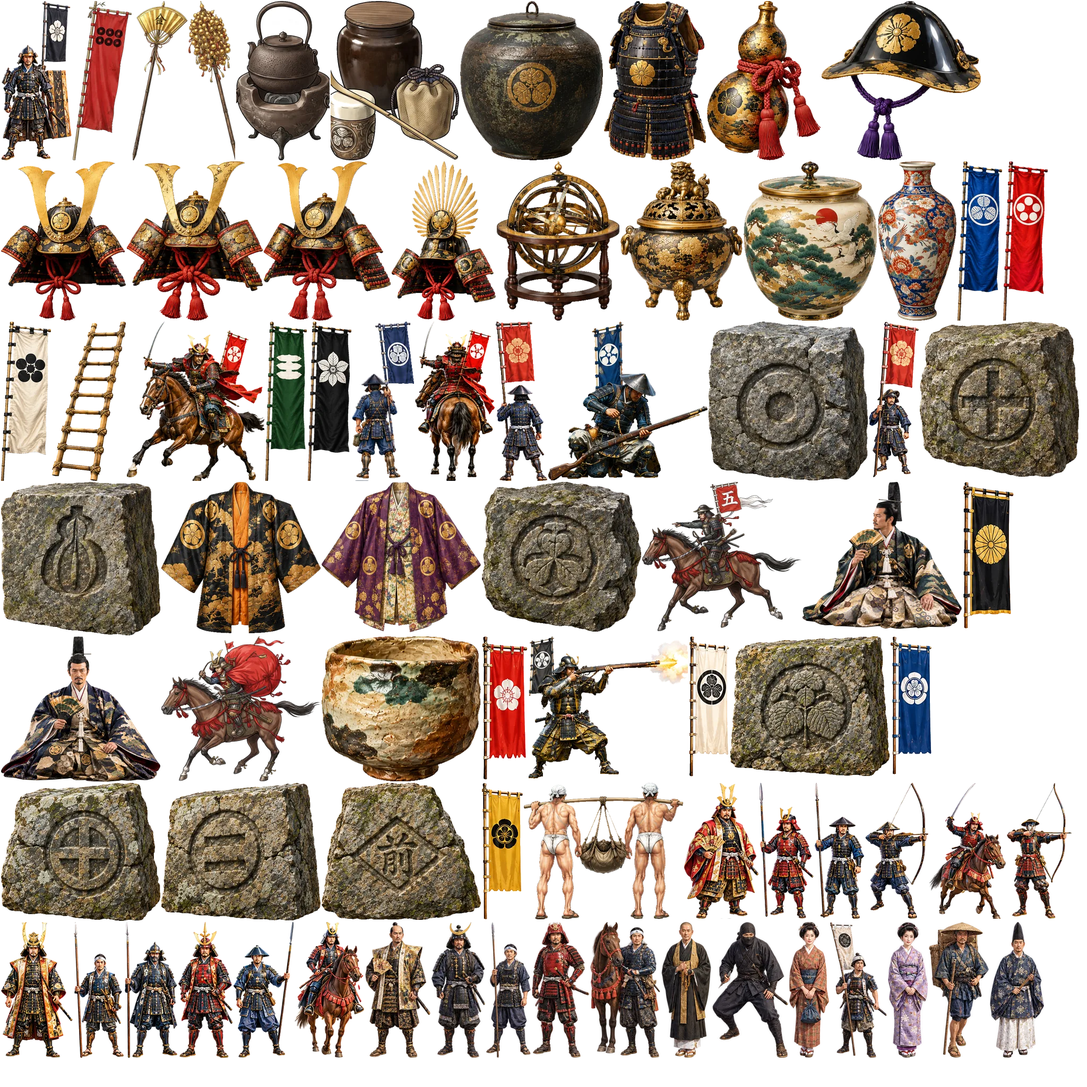
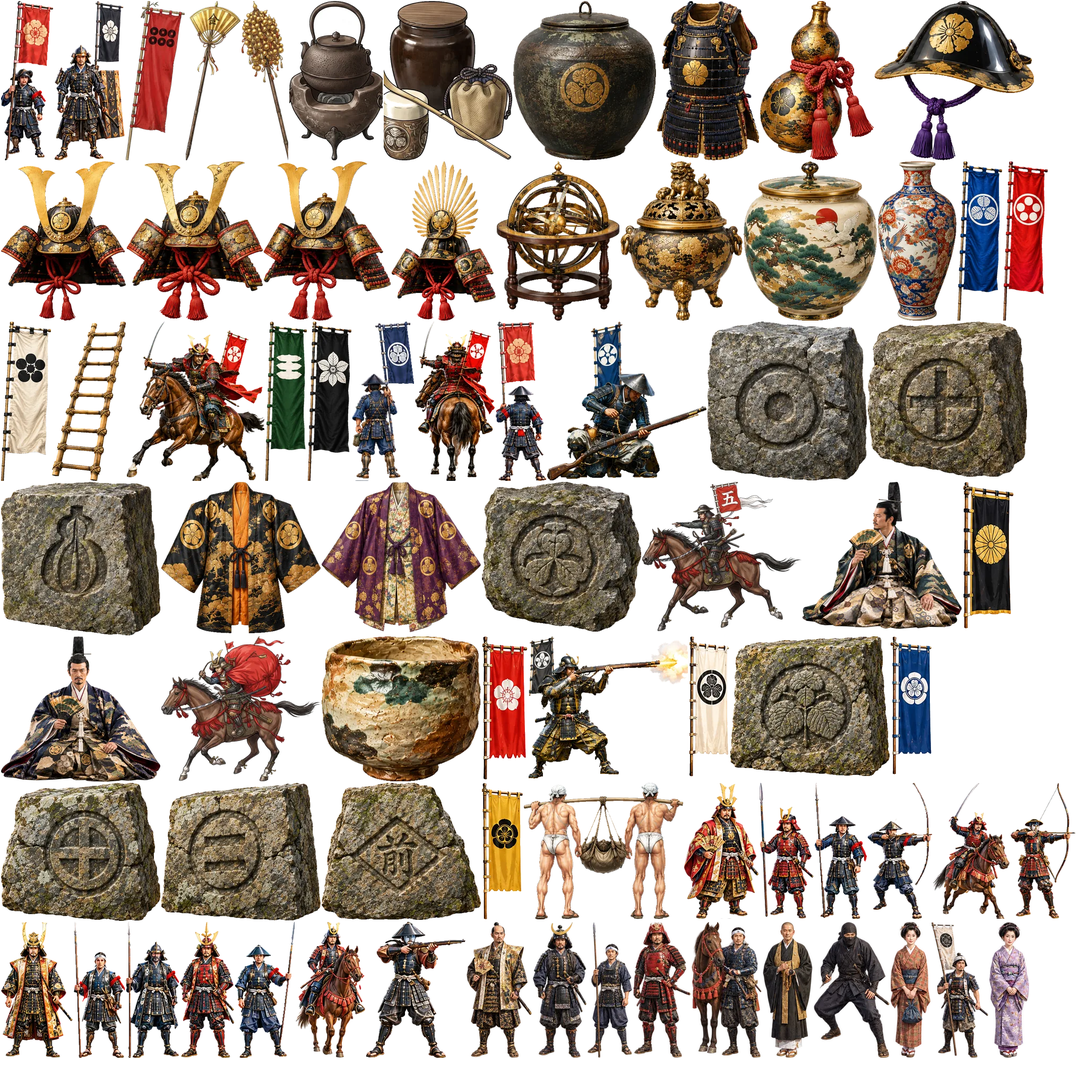
徳川方の動き・騎馬の後ろ姿6種を追加。豊臣方の足軽9種を赤い袖印・腰札つきの正面と後ろ姿に入れ替え
Claude-Session: https://claude.ai/code/session_01CbQDmY5EVodmwZ72hpont7

Changed region(s): [[0.0, 0.0, 0.9688, 0.1562], [0.0625, 0.7188, 1.0, 1.0], [0.4375, 0.2812, 1.0, 0.4375]]

diff --git a/index.html b/index.html
@@ -3320,7 +3320,7 @@ const inOut=(x,z,m)=>OUTAREA.some(r=>inR(r,x,z,m||0));
 }
 
 /* ================= 切り抜き画像（スプライト）: 人物・装飾品をアトラス画像から並べる ================= */
-const ATLAS_META={"size":2048,"pages":4,"s":{"g_nobori":[0,2,2,133,300,3.0],"nb_rokumon":[0,137,2,111,300,4.2],"kinsen":[0,250,2,103,300,4.2],"sennari":[0,355,2,88,300,4.2],"kama":[0,445,2,176,300,0.35],"chaire":[0,623,2,242,300,0.22],"ex_chatsubo":[0,867,2,269,300,0.42],"ex_do":[0,1138,2,192,300,0.7],"ex_hyotan":[0,1332,2,214,300,0.38],"ex_jingasa":[0,1548,2,300,300,0.32],"ex_kabuto1":[0,2,304,235,300,0.55],"ex_kabuto2":[0,239,304,256,300,0.55],"ex_kabuto3":[0,497,304,239,300,0.55],"ex_kabuto_bariin":[0,738,304,196,300,0.62],"ex_konten":[0,936,304,231,300,0.55],"ex_kouro":[0,1169,304,230,300,0.42],"ex_tsubo_matsu":[0,1401,304,251,300,0.42],"ex_vase_imari":[0,1654,304,148,300,0.5],"k_nb_aoi":[0,1804,304,84,300,4.2],"k_nb_ii":[0,1890,304,84,300,4.2],"k_nb_maeda":[0,2,606,94,300,4.2],"obj_hashigo":[0,98,606,139,300,4.5],"r_act_kiba":[0,239,606,259,300,2.9],"t_nb_green":[0,500,606,78,300,4.2],"t_nb_mori":[0,580,606,82,300,4.2],"k_nobori_b":[0,664,606,116,300,3.4],"r_act_kiba_b":[0,782,606,150,300,2.9],"t_nobori_b":[0,934,606,97,300,3.4],"k_act_reload":[0,1033,606,300,299,1.9],"ki_maru":[0,1335,606,300,299,1.1],"t_nobori":[0,1637,606,94,293,3.4],"ki_jumonji":[0,1733,606,300,292,1.1],"ki_hyotan":[0,2,908,300,289,1.1],"ex_jinbaori1":[0,304,908,300,285,0.95],"ex_jinbaori2":[0,606,908,300,283,0.95],"ki_kashiwa":[0,908,908,300,282,1.1],"tsukaiban":[0,1210,908,300,281,2.7],"lord_green":[0,1512,908,300,277,1.25],"nb_black":[0,1814,908,96,276,4.2],"lord_navy":[0,2,1199,300,274,1.25],"horo":[0,304,1199,300,273,2.7],"ex_chawan_oribe":[0,606,1199,300,273,0.16],"nb_white":[0,908,1199,86,270,4.2],"k_act_fire":[0,996,1199,300,268,2.1],"nb_red":[0,1298,1199,76,264,4.2],"ki_kiri":[0,1376,1199,300,263,1.1],"nb_blue":[0,1678,1199,77,260,4.2],"ki_jumonji2":[0,2,1475,300,260,1.1],"ki_nibiki":[0,304,1475,300,259,1.1],"ki_mae":[0,606,1475,300,258,1.1],"nb_yellow":[0,908,1475,77,257,4.2],"mokko_b":[0,987,1475,300,257,1.75],"t_hideyori":[0,1289,1475,140,256,1.75],"t_bushou":[0,1431,1475,102,256,1.8],"t_yari":[0,1535,1475,93,256,1.75],"t_yumi":[0,1630,1475,119,256,1.8],"t_uma":[0,1751,1475,144,256,2.5],"r_yumi":[0,1897,1475,122,256,1.8],"taisho":[0,2,1737,135,256,1.85],"y_hb":[0,139,1737,94,256,1.75],"y_dark":[0,235,1737,99,256,1.8],"r_bushou":[0,336,1737,102,256,1.85],"ashigaru":[0,440,1737,113,256,1.75],"r_kiba":[0,555,1737,131,256,2.6],"p_lord":[0,688,1737,123,256,1.75],"p_kabuto":[0,813,1737,101,256,1.8],"p_yari":[0,916,1737,84,256,1.75],"p_red":[0,1002,1737,108,256,1.8],"p_horse":[0,1112,1737,132,256,2.3],"p_monk":[0,1246,1737,94,256,1.75],"p_ninja":[0,1342,1737,143,256,1.6],"p_woman":[0,1487,1737,75,256,1.6],"p_flag":[0,1564,1737,107,256,2.6],"p_lav":[0,1673,1737,75,256,1.6],"p_porter":[0,1750,1737,113,256,1.7],"p_noble":[0,1865,1737,102,256,1.8],"p_orange":[1,2,2,81,256,1.6],"p_point":[1,85,2,101,256,1.75],"p_flagboy":[1,188,2,97,256,2.4],"p_naked":[1,287,2,118,256,1.7],"q_ronin":[1,407,2,112,256,1.75],"q_redw":[1,521,2,83,256,1.6],"q_merchant":[1,606,2,124,256,1.75],"q_yoke":[1,732,2,187,256,1.7],"q_green":[1,921,2,76,256,1.6],"q_child":[1,999,2,175,256,1.1],"q_oldw":[1,1176,2,120,256,1.5],"q_girl":[1,1298,2,108,256,1.45],"q_traveler":[1,1408,2,124,256,1.75],"q_purple":[1,1534,2,100,256,1.6],"w_samurai":[1,1636,2,115,256,1.8],"w_red":[1,1753,2,73,256,1.6],"w_yoke":[1,1828,2,163,256,1.7],"w_bucket":[1,2,260,80,256,1.55],"w_traveler":[1,84,260,103,256,1.8],"w_boy":[1,189,260,124,256,1.3],"w_umbrella":[1,315,260,90,256,1.7],"w_box":[1,407,260,114,256,1.7],"w_oldw":[1,523,260,113,256,1.5],"w_youth":[1,638,260,102,256,1.75],"w_tray":[1,742,260,78,256,1.6],"w_straw":[1,822,260,110,256,1.75],"lady_walk":[1,934,260,108,256,1.62],"lady_tray":[1,1044,260,84,256,1.6],"lady_tray2":[1,1130,260,109,256,1.6],"sam_kami":[1,1241,260,123,256,1.8],"sam_haori":[1,1366,260,113,256,1.8],"sam_armor":[1,1481,260,102,256,1.8],"lord_purple":[1,1585,260,246,256,1.25],"sanada":[1,1833,260,152,256,2.3],"yodo":[1,2,518,159,256,1.62],"nene":[1,163,518,161,256,1.6],"rikyu":[1,326,518,97,256,1.68],"kimura":[1,425,518,126,256,2.35],"goto":[1,553,518,127,256,2.3],"mitsunari":[1,682,518,114,256,1.75],"ishibiki":[1,798,518,185,256,1.55],"nanban":[1,985,518,121,256,1.85],"frois":[1,1108,518,87,256,1.75],"touryou":[1,1197,518,106,256,1.72],"ishiku":[1,1305,518,206,256,1.25],"takajo":[1,1513,518,149,256,1.75],"jijo":[1,1664,518,112,256,1.6],"bugyo":[1,1778,518,164,256,1.8],"taketaba_a":[1,2,776,183,256,1.75],"teppo_k":[1,187,776,201,256,1.3],"taketaba":[1,390,776,100,256,2.0],"kokuin":[1,492,776,204,256,1.0],"act_carry":[1,698,776,151,256,2.3],"act_flee":[1,851,776,193,256,2.2],"ex_hata":[1,1046,776,130,256,1.6],"ex_hideyoshi_zo":[1,1178,776,157,256,1.5],"ex_kakejiku_castle":[1,1337,776,128,256,1.5],"k_bs_date":[1,1467,776,199,256,2.6],"k_bs_honda":[1,1668,776,136,256,2.6],"k_bs_ii":[1,1806,776,106,256,2.6],"k_bs_maeda":[1,2,1034,142,256,2.6],"k_bs_matsudaira":[1,146,1034,112,256,2.6],"k_bs_satake":[1,260,1034,155,256,2.6],"k_bs_todo":[1,417,1034,133,256,2.6],"k_bs_uesugi":[1,552,1034,119,256,2.6],"obj_fuda":[1,673,1034,94,256,1.9],"obj_tate":[1,769,1034,202,256,1.6],"t_bs_akashi":[1,973,1034,128,256,2.6],"t_bs_chosokabe":[1,1103,1034,137,256,2.6],"t_bs_kimura2":[1,1242,1034,125,256,2.6],"t_bs_mori":[1,1369,1034,180,256,2.6],"t_bs_ono":[1,1551,1034,146,256,2.6],"ashigaru_b":[1,1699,1034,100,256,1.75],"ishibiki_b":[1,1801,1034,168,256,1.55],"ishiku_b":[1,2,1292,214,256,1.25],"k_captain_b":[1,218,1292,107,256,1.75],"k_teppo_b":[1,327,1292,161,256,1.7],"k_yari_b":[1,490,1292,109,256,1.75],"k_yumi_b":[1,601,1292,164,256,1.8],"ninpu_b":[1,767,1292,104,256,1.65],"p_naked_b":[1,873,1292,114,256,1.7],"p_porter_b":[1,989,1292,114,256,1.7],"r_act_fire_b":[1,1105,1292,252,256,2.1],"r_bushou_b":[1,1359,1292,112,256,1.85],"r_kiba_b":[1,1473,1292,124,256,2.6],"r_yumi_b":[1,1599,1292,122,256,1.8],"t_act_yari_b":[1,1723,1292,229,256,2.0],"t_bushou_b":[1,2,1550,105,256,1.8],"t_teppo_b":[1,109,1550,215,256,1.7],"t_uma_b":[1,326,1550,113,256,2.5],"t_yari_b":[1,441,1550,95,256,1.75],"t_yumi_b":[1,538,1550,119,256,1.8],"taketaba_a_b":[1,659,1550,132,256,1.75],"teppo_a_b":[1,793,1550,181,256,1.65],"teppo_k_b":[1,976,1550,173,256,1.3],"y_dark_b":[1,1151,1550,103,256,1.8],"y_hb_b":[1,1256,1550,90,256,1.75],"yari_a_b":[1,1348,1550,114,256,1.8],"pillar_k":[1,1464,1550,42,255,2.4],"k_yumi":[1,1508,1550,137,254,1.8],"ki_umebachi":[1,1647,1550,300,254,1.1],"kago":[2,2,2,300,253,2.0],"nb_stripe":[2,304,2,74,252,4.2],"r_act_fire":[2,380,2,300,249,2.1],"ex_chawan_gold":[2,682,2,270,248,0.16],"nb_yel2":[2,954,2,73,246,4.2],"nb_white2":[2,1029,2,71,246,4.2],"ex_sensu_kiri":[2,1102,2,300,245,0.32],"ex_kawara":[2,1404,2,300,244,0.3],"k_nobori":[2,1706,2,108,242,3.4],"nb_green2":[2,1816,2,63,242,4.2],"k_act_taketaba":[2,2,257,300,242,2.3],"nb_navyw":[2,304,257,70,241,4.2],"ex_sensu_tsuru":[2,376,257,300,239,0.32],"ex_monjo":[2,678,257,300,237,0.3],"ki_naka":[2,980,257,300,237,1.1],"ki_uroko":[2,1282,257,300,237,1.1],"nb_purple":[2,1584,257,78,236,4.2],"nb_tomoe":[2,1664,257,75,236,4.2],"nb_navy":[2,1741,257,75,236,4.2],"ki_sanbo":[2,2,501,300,236,1.1],"mokko":[2,304,501,300,235,1.75],"nb_cross":[2,606,501,78,234,4.2],"torch_pole":[2,686,501,48,234,2.2],"teppo_a":[2,736,501,169,233,1.65],"hideyoshi":[2,907,501,300,233,1.3],"k_bushou":[2,1209,501,99,232,1.8],"nb_green":[2,1310,501,71,231,4.2],"nobori_pair":[2,1383,501,133,229,3.0],"k_ieyasu":[2,1518,501,156,228,1.3],"ex_hako_tsuru":[2,1676,501,300,228,0.4],"nb_white_k":[2,2,739,101,227,4],"toro4":[2,105,739,93,227,2.0],"nobori_kid":[2,200,739,71,225,2.8],"kasa":[2,273,739,174,225,2.6],"kuge":[2,449,739,86,224,1.85],"toro2":[2,537,739,70,224,1.9],"k_uma":[2,609,739,178,223,2.5],"onna_musha":[2,789,739,70,223,1.65],"t_monk":[2,861,739,102,222,1.75],"ex_byobu_castle":[2,965,739,300,219,1.25],"k_yari":[2,1267,739,101,217,1.75],"yagura_w":[2,1370,739,124,217,4.5],"toro1":[2,1496,739,56,217,0.9],"k_act_climb":[2,1554,739,300,216,2.4],"k_zouhei_b":[2,2,968,234,216,1.7],"yagura_flag":[2,238,968,120,214,6],"by_pine":[2,360,968,314,214,1.7],"by_sakura":[2,676,968,277,214,1.7],"armor":[2,955,968,110,213,1.5],"toro3":[2,1067,968,132,213,2.2],"taore":[2,1201,968,300,212,0.75],"samurai_p":[2,1503,968,97,211,1.75],"samurai_a":[2,1602,968,112,211,1.75],"by_crane":[2,1716,968,253,210,1.7],"ex_hako_kiri":[2,2,1186,300,210,0.38],"by_iris":[2,304,1186,190,209,1.7],"t_act_yari":[2,496,1186,300,209,2.0],"samurai_b":[2,798,1186,86,208,1.75],"by_tiger":[2,886,1186,180,208,1.7],"chawan":[2,1068,1186,300,206,0.09],"by_kiri":[2,1370,1186,224,205,1.7],"t_taitsutsu":[2,1596,1186,112,204,1.75],"umajirushi":[2,1710,1186,122,203,3.0],"kagaribi2":[2,1834,1186,55,202,1.7],"obj_hyorou":[2,2,1398,300,202,1.0],"kakejiku":[2,304,1398,77,201,1.6],"t_teppo":[2,383,1398,163,200,1.7],"bell":[2,548,1398,103,200,2.4],"musume_r":[2,653,1398,63,198,1.6],"ex_byobu_sakura":[2,718,1398,300,198,1.25],"yari_pair":[2,1020,1398,124,197,1.75],"houou":[2,1146,1398,196,196,1.4],"yari_a":[2,1344,1398,89,194,1.8],"tabisou":[2,1435,1398,88,193,1.8],"kuge_g":[2,1525,1398,88,193,1.8],"ex_byobu_castle2":[2,1615,1398,300,189,1.25],"uma_rider":[2,2,1602,162,187,2.3],"yagura":[2,166,1602,117,187,6],"lan_white":[2,285,1602,84,186,0.8],"kabuto":[2,371,1602,127,185,0.6],"maku_r":[2,500,1602,93,184,1.6],"maku_w":[2,595,1602,98,183,1.6],"maku_p":[2,695,1602,101,182,1.6],"k_monk":[2,798,1602,96,181,1.75],"onna_b":[2,896,1602,70,181,1.6],"andon_g":[2,968,1602,91,181,0.85],"kagaribi":[2,1061,1602,52,179,1.7],"saku":[2,1115,1602,199,179,2.2],"lan_red":[2,1316,1602,71,178,0.8],"koshi":[2,1389,1602,237,178,1.8],"ex_emaki1":[2,1628,1602,300,178,0.32],"shoji":[2,2,1791,260,177,1.8],"lan_tomoe":[2,264,1791,65,176,0.8],"k_teppo":[2,331,1791,153,175,1.7],"shonin":[2,486,1791,85,174,1.7],"ex_emaki2":[2,573,1791,300,173,0.32],"taiko":[2,875,1791,107,170,1.5],"fs_castle":[2,984,1791,284,170,1.8],"fs_ume":[2,1270,1791,241,170,1.8],"fs_pine":[2,1513,1791,271,170,1.8],"chochin":[2,1786,1791,81,170,1.2],"ex_norimono":[3,2,2,300,170,1.25],"workers":[3,304,2,211,169,1.8],"okami_p":[3,517,2,59,169,1.6],"jin_gate":[3,578,2,219,168,3.4],"teppo_line":[3,799,2,281,167,1.7],"ninpu":[3,1082,2,72,167,1.65],"oni2":[3,1156,2,187,164,1.0],"ikebana":[3,1345,2,110,163,0.7],"cannon_c":[3,1457,2,275,162,1.9],"roujin":[3,1734,2,85,162,1.65],"andon":[3,1821,2,81,162,0.9],"onigawara":[3,2,174,187,162,1.2],"wara":[3,191,174,91,161,1.7],"miko":[3,284,174,61,159,1.6],"bonsai":[3,347,174,147,159,0.6],"ishiyama":[3,496,174,300,159,1.6],"k_captain":[3,798,174,106,158,1.75],"cart":[3,906,174,203,158,1.9],"maru_mado":[3,1111,174,152,158,1.2],"log":[3,1265,174,106,155,1.6],"lan_small":[3,1373,174,45,153,1.3],"kg_pair":[3,1420,174,75,152,0.9],"bows":[3,1497,174,70,149,2.0],"mon_board":[3,1569,174,192,149,1.6],"t_yuso":[3,1763,174,204,148,1.9],"gold_uma":[3,1969,174,77,148,2.6],"ex_katana1":[3,2,338,300,147,0.42],"cabinet":[3,304,338,101,146,1.0],"ryu_c":[3,407,338,197,145,1.0],"t_ninja":[3,606,338,122,144,1.4],"ryu":[3,730,338,216,144,1.2],"ex_byobu_kassen":[3,948,338,300,144,1.25],"by_small":[3,1250,338,186,143,1.2],"k_ninja":[3,1438,338,121,142,1.4],"shelf":[3,1561,338,146,142,0.9],"shishi":[3,1709,338,167,142,1.2],"saru":[3,2,487,169,142,0.8],"jar":[3,173,487,89,141,0.55],"taka":[3,264,487,92,141,0.7],"t_hoju":[3,358,487,155,140,1.9],"spears":[3,515,487,11,140,2.6],"jinmaku":[3,528,487,300,138,1.8],"vase":[3,830,487,72,137,0.55],"ex_teppo":[3,904,487,300,137,0.38],"k_act_ozutsu":[3,1206,487,300,135,2.0],"ex_katana2":[3,1508,487,300,133,0.42],"shura":[3,2,631,300,132,1.6],"saku_w":[3,304,631,300,131,2.0],"arrows":[3,606,631,31,131,1.1],"chest":[3,639,631,183,131,0.6],"shishi_c":[3,824,631,119,131,0.8],"act_fallen":[3,945,631,300,131,0.8],"hana_c":[3,1247,631,128,130,0.8],"ogi":[3,1377,631,190,129,0.55],"houou_c":[3,1569,631,122,129,0.8],"sakamogi":[3,1693,631,300,127,1.7],"tora_c":[3,2,765,157,127,0.8],"obj_mokko":[3,161,765,300,127,0.7],"k_hoju":[3,463,765,236,126,1.8],"k_kago":[3,701,765,174,125,2.1],"kodomo":[3,877,765,59,125,1.2],"kg_t":[3,938,765,35,124,0.9],"kg_pair2":[3,975,765,75,124,0.9],"taka_c":[3,1052,765,143,124,0.8],"rail_k":[3,1197,765,216,123,0.9],"oni5":[3,1415,765,188,122,0.7],"ex_katana3":[3,1605,765,300,122,0.42],"k_zouhei":[3,2,894,159,121,1.7],"k_tate":[3,163,894,176,121,2.2],"box_l":[3,341,894,150,121,0.5],"kg_door":[3,493,894,76,121,1.0],"ozutsu":[3,571,894,300,121,1.4],"guns":[3,873,894,85,120,1.6],"machishu":[3,960,894,138,117,1.7],"oni6":[3,1100,894,185,117,0.65],"cannon":[3,1287,894,199,116,1.1],"k_yuso":[3,1488,894,140,115,1.9],"kg_plate":[3,1630,894,65,115,0.8],"flags2":[3,1697,894,86,114,1.6],"kg_t2":[3,1785,894,39,114,0.9],"chest_m":[3,1826,894,159,113,0.6],"cart2":[3,2,1017,155,112,1.8],"kadomatsu":[3,159,1017,55,112,1.2],"incense":[3,216,1017,73,111,0.6],"tassel":[3,291,1017,77,111,0.6],"dais":[3,370,1017,158,109,1.2],"oni3":[3,530,1017,161,109,0.8],"pot":[3,693,1017,102,108,0.7],"kouro":[3,797,1017,124,106,0.4],"crane_c":[3,923,1017,205,105,0.9],"rail_k2":[3,1130,1017,239,104,0.8],"rail_r":[3,1371,1017,186,100,0.8],"kg_panel":[3,1559,1017,127,100,0.8],"lowtable":[3,1688,1017,271,97,0.35],"shogi":[3,2,1131,120,97,0.5],"chest_r":[3,124,1131,142,96,0.7],"fence_r":[3,268,1131,157,95,0.9],"barrels":[3,427,1131,150,94,1.2],"kin_byobu":[3,579,1131,130,94,1.4],"chaki":[3,711,1131,165,94,0.25],"table":[3,878,1131,240,93,0.35],"crates":[3,1120,1131,151,92,1.1],"tray_r":[3,1273,1131,170,91,0.25],"oni4":[3,1445,1131,161,88,0.55],"drumbox":[3,1608,1131,64,87,0.6],"tawara":[3,1674,1131,82,86,0.55],"box_s":[3,1758,1131,123,86,0.3],"kome":[3,1883,1131,125,85,1.2],"mon_hana":[3,2,1230,82,84,0.6],"oni7":[3,86,1230,66,83,0.5],"oni8":[3,154,1230,56,83,0.5],"mon_d":[3,212,1230,81,82,0.6],"trunk":[3,295,1230,114,81,0.6],"mon_sakura":[3,411,1230,81,81,0.6],"chest_k":[3,494,1230,123,79,0.7],"mon_a":[3,619,1230,79,79,0.6],"mon_tomoe":[3,700,1230,78,79,0.6],"zabuton_g":[3,780,1230,103,76,0.15],"ranma3":[3,885,1230,512,76,0.6],"mon_c":[3,1399,1230,75,76,0.6],"mon_kiku":[3,1476,1230,75,76,0.6],"mon_mokko":[3,1553,1230,76,76,0.6],"ranma4":[3,2,1316,512,75,0.6],"mon_hishi":[3,516,1316,75,75,0.6],"bucket":[3,593,1316,58,73,0.5],"zabuton_r":[3,653,1316,136,73,0.15],"ranma1":[3,791,1316,512,73,0.7],"zabuton_p":[3,1305,1316,98,71,0.15],"mon_b":[3,1405,1316,77,71,0.6],"kg_h":[3,1484,1316,172,70,0.35],"ranma2":[3,2,1393,512,67,0.6],"ranma7":[3,516,1393,265,66,0.45],"ranma8":[3,783,1393,270,66,0.45],"ranma5":[3,1055,1393,266,65,0.45],"ranma6":[3,1323,1393,270,65,0.45],"kumo_c":[3,1595,1393,127,64,0.45],"stool":[3,1724,1393,94,58,0.45],"kg_h2":[3,1820,1393,170,45,0.3],"kg_stud":[3,1992,1393,36,39,0.14],"noki_end":[3,2,1462,152,37,0.25],"kg_stud3":[3,156,1462,34,35,0.14],"kg_stud2":[3,192,1462,31,31,0.12]}};
+const ATLAS_META={"size":2048,"pages":4,"s":{"t_nobori":[0,2,2,98,300,3.4],"g_nobori":[0,102,2,133,300,3.0],"nb_rokumon":[0,237,2,111,300,4.2],"kinsen":[0,350,2,103,300,4.2],"sennari":[0,455,2,88,300,4.2],"kama":[0,545,2,176,300,0.35],"chaire":[0,723,2,242,300,0.22],"ex_chatsubo":[0,967,2,269,300,0.42],"ex_do":[0,1238,2,192,300,0.7],"ex_hyotan":[0,1432,2,214,300,0.38],"ex_jingasa":[0,1648,2,300,300,0.32],"ex_kabuto1":[0,2,304,235,300,0.55],"ex_kabuto2":[0,239,304,256,300,0.55],"ex_kabuto3":[0,497,304,239,300,0.55],"ex_kabuto_bariin":[0,738,304,196,300,0.62],"ex_konten":[0,936,304,231,300,0.55],"ex_kouro":[0,1169,304,230,300,0.42],"ex_tsubo_matsu":[0,1401,304,251,300,0.42],"ex_vase_imari":[0,1654,304,148,300,0.5],"k_nb_aoi":[0,1804,304,84,300,4.2],"k_nb_ii":[0,1890,304,84,300,4.2],"k_nb_maeda":[0,2,606,94,300,4.2],"obj_hashigo":[0,98,606,139,300,4.5],"r_act_kiba":[0,239,606,259,300,2.9],"t_nb_green":[0,500,606,78,300,4.2],"t_nb_mori":[0,580,606,82,300,4.2],"k_nobori_b":[0,664,606,116,300,3.4],"r_act_kiba_b":[0,782,606,150,300,2.9],"t_nobori_b":[0,934,606,95,300,3.4],"k_act_reload":[0,1031,606,300,299,1.9],"ki_maru":[0,1333,606,300,299,1.1],"ki_jumonji":[0,1635,606,300,292,1.1],"ki_hyotan":[0,2,908,300,289,1.1],"ex_jinbaori1":[0,304,908,300,285,0.95],"ex_jinbaori2":[0,606,908,300,283,0.95],"ki_kashiwa":[0,908,908,300,282,1.1],"tsukaiban":[0,1210,908,300,281,2.7],"lord_green":[0,1512,908,300,277,1.25],"nb_black":[0,1814,908,96,276,4.2],"lord_navy":[0,2,1199,300,274,1.25],"horo":[0,304,1199,300,273,2.7],"ex_chawan_oribe":[0,606,1199,300,273,0.16],"nb_white":[0,908,1199,86,270,4.2],"k_act_fire":[0,996,1199,300,268,2.1],"nb_red":[0,1298,1199,76,264,4.2],"ki_kiri":[0,1376,1199,300,263,1.1],"nb_blue":[0,1678,1199,77,260,4.2],"ki_jumonji2":[0,2,1475,300,260,1.1],"ki_nibiki":[0,304,1475,300,259,1.1],"ki_mae":[0,606,1475,300,258,1.1],"nb_yellow":[0,908,1475,77,257,4.2],"mokko_b":[0,987,1475,300,257,1.75],"t_hideyori":[0,1289,1475,140,256,1.75],"t_bushou":[0,1431,1475,102,256,1.8],"t_yari":[0,1535,1475,98,256,1.75],"t_yumi":[0,1635,1475,121,256,1.8],"t_uma":[0,1758,1475,144,256,2.5],"r_yumi":[0,1904,1475,122,256,1.8],"taisho":[0,2,1737,135,256,1.85],"y_hb":[0,139,1737,96,256,1.75],"y_dark":[0,237,1737,100,256,1.8],"r_bushou":[0,339,1737,102,256,1.85],"ashigaru":[0,443,1737,112,256,1.75],"r_kiba":[0,557,1737,131,256,2.6],"teppo_a":[0,690,1737,187,256,1.65],"p_lord":[0,879,1737,123,256,1.75],"p_kabuto":[0,1004,1737,101,256,1.8],"p_yari":[0,1107,1737,84,256,1.75],"p_red":[0,1193,1737,108,256,1.8],"p_horse":[0,1303,1737,132,256,2.3],"p_monk":[0,1437,1737,94,256,1.75],"p_ninja":[0,1533,1737,143,256,1.6],"p_woman":[0,1678,1737,75,256,1.6],"p_flag":[0,1755,1737,107,256,2.6],"p_lav":[0,1864,1737,75,256,1.6],"p_porter":[1,2,2,113,256,1.7],"p_noble":[1,117,2,102,256,1.8],"p_orange":[1,221,2,81,256,1.6],"p_point":[1,304,2,101,256,1.75],"p_flagboy":[1,407,2,97,256,2.4],"p_naked":[1,506,2,118,256,1.7],"q_ronin":[1,626,2,112,256,1.75],"q_redw":[1,740,2,83,256,1.6],"q_merchant":[1,825,2,124,256,1.75],"q_yoke":[1,951,2,187,256,1.7],"q_green":[1,1140,2,76,256,1.6],"q_child":[1,1218,2,175,256,1.1],"q_oldw":[1,1395,2,120,256,1.5],"q_girl":[1,1517,2,108,256,1.45],"q_traveler":[1,1627,2,124,256,1.75],"q_purple":[1,1753,2,100,256,1.6],"w_samurai":[1,1855,2,115,256,1.8],"w_red":[1,1972,2,73,256,1.6],"w_yoke":[1,2,260,163,256,1.7],"w_bucket":[1,167,260,80,256,1.55],"w_traveler":[1,249,260,103,256,1.8],"w_boy":[1,354,260,124,256,1.3],"w_umbrella":[1,480,260,90,256,1.7],"w_box":[1,572,260,114,256,1.7],"w_oldw":[1,688,260,113,256,1.5],"w_youth":[1,803,260,102,256,1.75],"w_tray":[1,907,260,78,256,1.6],"w_straw":[1,987,260,110,256,1.75],"lady_walk":[1,1099,260,108,256,1.62],"lady_tray":[1,1209,260,84,256,1.6],"lady_tray2":[1,1295,260,109,256,1.6],"sam_kami":[1,1406,260,123,256,1.8],"sam_haori":[1,1531,260,113,256,1.8],"sam_armor":[1,1646,260,102,256,1.8],"lord_purple":[1,1750,260,246,256,1.25],"sanada":[1,2,518,152,256,2.3],"yodo":[1,156,518,159,256,1.62],"nene":[1,317,518,161,256,1.6],"rikyu":[1,480,518,97,256,1.68],"kimura":[1,579,518,126,256,2.35],"goto":[1,707,518,127,256,2.3],"mitsunari":[1,836,518,114,256,1.75],"ishibiki":[1,952,518,185,256,1.55],"nanban":[1,1139,518,121,256,1.85],"frois":[1,1262,518,87,256,1.75],"touryou":[1,1351,518,106,256,1.72],"ishiku":[1,1459,518,206,256,1.25],"takajo":[1,1667,518,149,256,1.75],"jijo":[1,1818,518,112,256,1.6],"bugyo":[1,2,776,164,256,1.8],"taketaba_a":[1,168,776,183,256,1.75],"teppo_k":[1,353,776,201,256,1.3],"taketaba":[1,556,776,100,256,2.0],"kokuin":[1,658,776,204,256,1.0],"act_carry":[1,864,776,151,256,2.3],"act_flee":[1,1017,776,193,256,2.2],"ex_hata":[1,1212,776,130,256,1.6],"ex_hideyoshi_zo":[1,1344,776,157,256,1.5],"ex_kakejiku_castle":[1,1503,776,128,256,1.5],"k_bs_date":[1,1633,776,199,256,2.6],"k_bs_honda":[1,1834,776,136,256,2.6],"k_bs_ii":[1,2,1034,106,256,2.6],"k_bs_maeda":[1,110,1034,142,256,2.6],"k_bs_matsudaira":[1,254,1034,112,256,2.6],"k_bs_satake":[1,368,1034,155,256,2.6],"k_bs_todo":[1,525,1034,133,256,2.6],"k_bs_uesugi":[1,660,1034,119,256,2.6],"obj_fuda":[1,781,1034,94,256,1.9],"obj_tate":[1,877,1034,202,256,1.6],"t_bs_akashi":[1,1081,1034,128,256,2.6],"t_bs_chosokabe":[1,1211,1034,137,256,2.6],"t_bs_kimura2":[1,1350,1034,125,256,2.6],"t_bs_mori":[1,1477,1034,180,256,2.6],"t_bs_ono":[1,1659,1034,146,256,2.6],"ashigaru_b":[1,1807,1034,104,256,1.75],"ishibiki_b":[1,2,1292,168,256,1.55],"ishiku_b":[1,172,1292,214,256,1.25],"k_act_fire_b":[1,388,1292,223,256,2.1],"k_act_reload_b":[1,613,1292,184,256,1.9],"k_act_taketaba_b":[1,799,1292,216,256,2.3],"k_bushou_b":[1,1017,1292,110,256,1.8],"k_captain_b":[1,1129,1292,107,256,1.75],"k_teppo_b":[1,1238,1292,161,256,1.7],"k_uma_b":[1,1401,1292,117,256,2.5],"k_yari_b":[1,1520,1292,109,256,1.75],"k_yumi_b":[1,1631,1292,164,256,1.8],"ninpu_b":[1,1797,1292,104,256,1.65],"p_naked_b":[1,1903,1292,114,256,1.7],"p_porter_b":[1,2,1550,114,256,1.7],"r_act_fire_b":[1,118,1550,252,256,2.1],"r_bushou_b":[1,372,1550,112,256,1.85],"r_kiba_b":[1,486,1550,124,256,2.6],"r_yumi_b":[1,612,1550,122,256,1.8],"t_act_yari_b":[1,736,1550,229,256,2.0],"t_bushou_b":[1,967,1550,105,256,1.8],"t_uma_b":[1,1074,1550,113,256,2.5],"t_yari_b":[1,1189,1550,97,256,1.75],"t_yumi_b":[1,1288,1550,116,256,1.8],"taketaba_a_b":[1,1406,1550,132,256,1.75],"teppo_a_b":[1,1540,1550,180,256,1.65],"teppo_k_b":[1,1722,1550,173,256,1.3],"y_dark_b":[1,1897,1550,107,256,1.8],"y_hb_b":[2,2,2,89,256,1.75],"yari_a_b":[2,93,2,117,256,1.8],"pillar_k":[2,212,2,42,255,2.4],"k_yumi":[2,256,2,137,254,1.8],"ki_umebachi":[2,395,2,300,254,1.1],"kago":[2,697,2,300,253,2.0],"t_teppo_b":[2,999,2,212,253,1.7],"nb_stripe":[2,1213,2,74,252,4.2],"k_tate_b":[2,1289,2,300,250,2.2],"r_act_fire":[2,1591,2,300,249,2.1],"ex_chawan_gold":[2,2,260,270,248,0.16],"nb_yel2":[2,274,260,73,246,4.2],"nb_white2":[2,349,260,71,246,4.2],"ex_sensu_kiri":[2,422,260,300,245,0.32],"ex_kawara":[2,724,260,300,244,0.3],"k_nobori":[2,1026,260,108,242,3.4],"nb_green2":[2,1136,260,63,242,4.2],"k_act_taketaba":[2,1201,260,300,242,2.3],"nb_navyw":[2,1503,260,70,241,4.2],"ex_sensu_tsuru":[2,1575,260,300,239,0.32],"ex_monjo":[2,2,510,300,237,0.3],"ki_naka":[2,304,510,300,237,1.1],"ki_uroko":[2,606,510,300,237,1.1],"nb_purple":[2,908,510,78,236,4.2],"nb_tomoe":[2,988,510,75,236,4.2],"nb_navy":[2,1065,510,75,236,4.2],"ki_sanbo":[2,1142,510,300,236,1.1],"t_teppo":[2,1444,510,181,235,1.7],"mokko":[2,1627,510,300,235,1.75],"nb_cross":[2,1929,510,78,234,4.2],"torch_pole":[2,2,749,48,234,2.2],"hideyoshi":[2,52,749,300,233,1.3],"k_bushou":[2,354,749,99,232,1.8],"nb_green":[2,455,749,71,231,4.2],"nobori_pair":[2,528,749,133,229,3.0],"k_ieyasu":[2,663,749,156,228,1.3],"ex_hako_tsuru":[2,821,749,300,228,0.4],"nb_white_k":[2,1123,749,101,227,4],"toro4":[2,1226,749,93,227,2.0],"nobori_kid":[2,1321,749,71,225,2.8],"yari_a":[2,1394,749,105,225,1.8],"kasa":[2,1501,749,174,225,2.6],"kuge":[2,1677,749,86,224,1.85],"toro2":[2,1765,749,70,224,1.9],"k_uma":[2,1837,749,178,223,2.5],"onna_musha":[2,2,985,70,223,1.65],"t_monk":[2,74,985,102,222,1.75],"ex_byobu_castle":[2,178,985,300,219,1.25],"k_yari":[2,480,985,101,217,1.75],"yagura_w":[2,583,985,124,217,4.5],"toro1":[2,709,985,56,217,0.9],"k_act_climb":[2,767,985,300,216,2.4],"k_zouhei_b":[2,1069,985,234,216,1.7],"yagura_flag":[2,1305,985,120,214,6],"by_pine":[2,1427,985,314,214,1.7],"by_sakura":[2,1743,985,277,214,1.7],"armor":[2,2,1210,110,213,1.5],"toro3":[2,114,1210,132,213,2.2],"taore":[2,248,1210,300,212,0.75],"samurai_p":[2,550,1210,97,211,1.75],"samurai_a":[2,649,1210,112,211,1.75],"by_crane":[2,763,1210,253,210,1.7],"ex_hako_kiri":[2,1018,1210,300,210,0.38],"by_iris":[2,1320,1210,190,209,1.7],"t_act_yari":[2,1512,1210,300,209,2.0],"samurai_b":[2,1814,1210,86,208,1.75],"by_tiger":[2,2,1425,180,208,1.7],"chawan":[2,184,1425,300,206,0.09],"by_kiri":[2,486,1425,224,205,1.7],"t_taitsutsu":[2,712,1425,112,204,1.75],"umajirushi":[2,826,1425,122,203,3.0],"kagaribi2":[2,950,1425,55,202,1.7],"obj_hyorou":[2,1007,1425,300,202,1.0],"kakejiku":[2,1309,1425,77,201,1.6],"bell":[2,1388,1425,103,200,2.4],"musume_r":[2,1493,1425,63,198,1.6],"ex_byobu_sakura":[2,1558,1425,300,198,1.25],"yari_pair":[2,1860,1425,124,197,1.75],"houou":[2,2,1635,196,196,1.4],"tabisou":[2,200,1635,88,193,1.8],"kuge_g":[2,290,1635,88,193,1.8],"ex_byobu_castle2":[2,380,1635,300,189,1.25],"uma_rider":[2,682,1635,162,187,2.3],"yagura":[2,846,1635,117,187,6],"lan_white":[2,965,1635,84,186,0.8],"kabuto":[2,1051,1635,127,185,0.6],"maku_r":[2,1180,1635,93,184,1.6],"maku_w":[2,1275,1635,98,183,1.6],"maku_p":[2,1375,1635,101,182,1.6],"k_monk":[2,1478,1635,96,181,1.75],"onna_b":[2,1576,1635,70,181,1.6],"andon_g":[2,1648,1635,91,181,0.85],"kagaribi":[2,1741,1635,52,179,1.7],"saku":[2,1795,1635,199,179,2.2],"lan_red":[2,2,1833,71,178,0.8],"koshi":[2,75,1833,237,178,1.8],"ex_emaki1":[2,314,1833,300,178,0.32],"shoji":[2,616,1833,260,177,1.8],"lan_tomoe":[2,878,1833,65,176,0.8],"k_teppo":[2,945,1833,153,175,1.7],"shonin":[2,1100,1833,85,174,1.7],"ex_emaki2":[2,1187,1833,300,173,0.32],"taiko":[2,1489,1833,107,170,1.5],"fs_castle":[2,1598,1833,284,170,1.8],"fs_ume":[3,2,2,241,170,1.8],"fs_pine":[3,245,2,271,170,1.8],"chochin":[3,518,2,81,170,1.2],"ex_norimono":[3,601,2,300,170,1.25],"workers":[3,903,2,211,169,1.8],"okami_p":[3,1116,2,59,169,1.6],"jin_gate":[3,1177,2,219,168,3.4],"teppo_line":[3,1398,2,281,167,1.7],"ninpu":[3,1681,2,72,167,1.65],"oni2":[3,1755,2,187,164,1.0],"ikebana":[3,2,174,110,163,0.7],"cannon_c":[3,114,174,275,162,1.9],"roujin":[3,391,174,85,162,1.65],"andon":[3,478,174,81,162,0.9],"onigawara":[3,561,174,187,162,1.2],"wara":[3,750,174,91,161,1.7],"miko":[3,843,174,61,159,1.6],"bonsai":[3,906,174,147,159,0.6],"ishiyama":[3,1055,174,300,159,1.6],"k_captain":[3,1357,174,106,158,1.75],"cart":[3,1465,174,203,158,1.9],"maru_mado":[3,1670,174,152,158,1.2],"log":[3,1824,174,106,155,1.6],"lan_small":[3,1932,174,45,153,1.3],"kg_pair":[3,2,339,75,152,0.9],"bows":[3,79,339,70,149,2.0],"mon_board":[3,151,339,192,149,1.6],"t_yuso":[3,345,339,204,148,1.9],"gold_uma":[3,551,339,77,148,2.6],"ex_katana1":[3,630,339,300,147,0.42],"cabinet":[3,932,339,101,146,1.0],"ryu_c":[3,1035,339,197,145,1.0],"t_ninja":[3,1234,339,122,144,1.4],"ryu":[3,1358,339,216,144,1.2],"ex_byobu_kassen":[3,1576,339,300,144,1.25],"by_small":[3,2,493,186,143,1.2],"k_ninja":[3,190,493,121,142,1.4],"shelf":[3,313,493,146,142,0.9],"shishi":[3,461,493,167,142,1.2],"saru":[3,630,493,169,142,0.8],"jar":[3,801,493,89,141,0.55],"taka":[3,892,493,92,141,0.7],"t_hoju":[3,986,493,155,140,1.9],"spears":[3,1143,493,11,140,2.6],"jinmaku":[3,1156,493,300,138,1.8],"vase":[3,1458,493,72,137,0.55],"ex_teppo":[3,1532,493,300,137,0.38],"k_act_ozutsu":[3,2,638,300,135,2.0],"ex_katana2":[3,304,638,300,133,0.42],"shura":[3,606,638,300,132,1.6],"saku_w":[3,908,638,300,131,2.0],"arrows":[3,1210,638,31,131,1.1],"chest":[3,1243,638,183,131,0.6],"shishi_c":[3,1428,638,119,131,0.8],"act_fallen":[3,1549,638,300,131,0.8],"hana_c":[3,1851,638,128,130,0.8],"ogi":[3,2,775,190,129,0.55],"houou_c":[3,194,775,122,129,0.8],"sakamogi":[3,318,775,300,127,1.7],"tora_c":[3,620,775,157,127,0.8],"obj_mokko":[3,779,775,300,127,0.7],"k_hoju":[3,1081,775,236,126,1.8],"k_kago":[3,1319,775,174,125,2.1],"kodomo":[3,1495,775,59,125,1.2],"kg_t":[3,1556,775,35,124,0.9],"kg_pair2":[3,1593,775,75,124,0.9],"taka_c":[3,1670,775,143,124,0.8],"rail_k":[3,1815,775,216,123,0.9],"oni5":[3,2,906,188,122,0.7],"ex_katana3":[3,192,906,300,122,0.42],"k_zouhei":[3,494,906,159,121,1.7],"k_tate":[3,655,906,176,121,2.2],"box_l":[3,833,906,150,121,0.5],"kg_door":[3,985,906,76,121,1.0],"ozutsu":[3,1063,906,300,121,1.4],"guns":[3,1365,906,85,120,1.6],"machishu":[3,1452,906,138,117,1.7],"oni6":[3,1592,906,185,117,0.65],"cannon":[3,1779,906,199,116,1.1],"k_yuso":[3,2,1030,140,115,1.9],"kg_plate":[3,144,1030,65,115,0.8],"flags2":[3,211,1030,86,114,1.6],"kg_t2":[3,299,1030,39,114,0.9],"chest_m":[3,340,1030,159,113,0.6],"cart2":[3,501,1030,155,112,1.8],"kadomatsu":[3,658,1030,55,112,1.2],"incense":[3,715,1030,73,111,0.6],"tassel":[3,790,1030,77,111,0.6],"dais":[3,869,1030,158,109,1.2],"oni3":[3,1029,1030,161,109,0.8],"pot":[3,1192,1030,102,108,0.7],"kouro":[3,1296,1030,124,106,0.4],"crane_c":[3,1422,1030,205,105,0.9],"rail_k2":[3,1629,1030,239,104,0.8],"rail_r":[3,2,1147,186,100,0.8],"kg_panel":[3,190,1147,127,100,0.8],"lowtable":[3,319,1147,271,97,0.35],"shogi":[3,592,1147,120,97,0.5],"chest_r":[3,714,1147,142,96,0.7],"fence_r":[3,858,1147,157,95,0.9],"barrels":[3,1017,1147,150,94,1.2],"kin_byobu":[3,1169,1147,130,94,1.4],"chaki":[3,1301,1147,165,94,0.25],"table":[3,1468,1147,240,93,0.35],"crates":[3,1710,1147,151,92,1.1],"tray_r":[3,1863,1147,170,91,0.25],"oni4":[3,2,1249,161,88,0.55],"drumbox":[3,165,1249,64,87,0.6],"tawara":[3,231,1249,82,86,0.55],"box_s":[3,315,1249,123,86,0.3],"kome":[3,440,1249,125,85,1.2],"mon_hana":[3,567,1249,82,84,0.6],"oni7":[3,651,1249,66,83,0.5],"oni8":[3,719,1249,56,83,0.5],"mon_d":[3,777,1249,81,82,0.6],"trunk":[3,860,1249,114,81,0.6],"mon_sakura":[3,976,1249,81,81,0.6],"chest_k":[3,1059,1249,123,79,0.7],"mon_a":[3,1184,1249,79,79,0.6],"mon_tomoe":[3,1265,1249,78,79,0.6],"zabuton_g":[3,1345,1249,103,76,0.15],"ranma3":[3,1450,1249,512,76,0.6],"mon_c":[3,1964,1249,75,76,0.6],"mon_kiku":[3,2,1339,75,76,0.6],"mon_mokko":[3,79,1339,76,76,0.6],"ranma4":[3,157,1339,512,75,0.6],"mon_hishi":[3,671,1339,75,75,0.6],"bucket":[3,748,1339,58,73,0.5],"zabuton_r":[3,808,1339,136,73,0.15],"ranma1":[3,946,1339,512,73,0.7],"zabuton_p":[3,1460,1339,98,71,0.15],"mon_b":[3,1560,1339,77,71,0.6],"kg_h":[3,1639,1339,172,70,0.35],"ranma2":[3,2,1417,512,67,0.6],"ranma7":[3,516,1417,265,66,0.45],"ranma8":[3,783,1417,270,66,0.45],"ranma5":[3,1055,1417,266,65,0.45],"ranma6":[3,1323,1417,270,65,0.45],"kumo_c":[3,1595,1417,127,64,0.45],"stool":[3,1724,1417,94,58,0.45],"kg_h2":[3,1820,1417,170,45,0.3],"kg_stud":[3,1992,1417,36,39,0.14],"noki_end":[3,2,1486,152,37,0.25],"kg_stud3":[3,156,1486,34,35,0.14],"kg_stud2":[3,192,1486,31,31,0.12]}};
 const ATL={tex:[],ok:false}; { const tl=new THREE.TextureLoader(); for(let i=0;i<ATLAS_META.pages;i++){ const t=tl.load('assets/atlas'+i+'.webp',()=>{ ATL.loaded=(ATL.loaded||0)+1; }); t.encoding=THREE.sRGBEncoding; t.anisotropy=4; ATL.tex.push(t); } }
 function sprInfo(n){ const m=ATLAS_META.s[n]; if(!m) return null; const P=ATLAS_META.size; return {page:m[0],u:m[1]/P,v:1-(m[2]+m[4])/P,uw:m[3]/P,vh:m[4]/P,h:m[5],aspect:m[3]/m[4]}; }
 const _sprMats=[];
